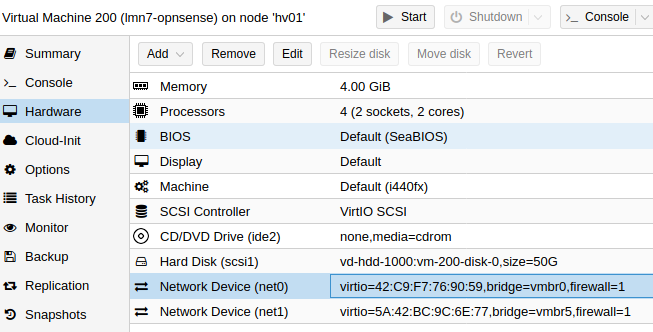
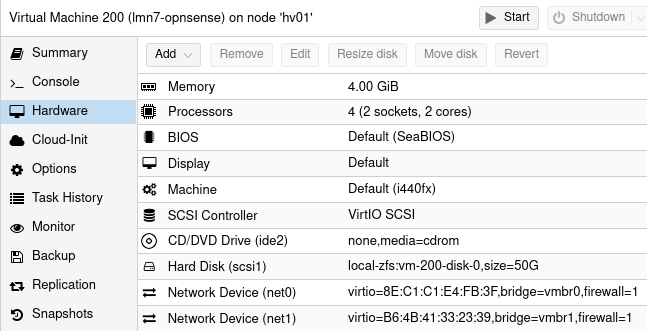
Enlargement of the hard disks according to the schedule

diff --git a/source/getting-started/installoptions/install-on-proxmox/index.rst b/source/getting-started/installoptions/install-on-proxmox/index.rst
@@ -272,20 +272,11 @@ Dazu wähle das Menü `Datacenter` -> `hv01`-> `Network`-> `Create` -> `Linux Br
 
 Darauf öffent sich ein neues Fenster. Dort sind folgende Einträge nötig: 
 
-============ ======
-Feld         Inhalt
-============ ======
-Bridge ports eno2
-Comment      green
-============ ======
-
-Mit `Create` wird die Brücke erstellen.
-
 .. figure:: media/install-on-proxmox_14_create-linux-bridge.png
    :align: center
    :alt: Schritt 14
 
-.. Bild muss ausgetauscht werden.
+Mit `Create` wird die Brücke erstellen.
 
 Anschließend Proxmox über den Button `Reboot` oben rechts neu starten, um die neuen Networking-Konfigurationen zu laden - Node hv01 muss dafür im Menü `Datacenter` links ausgewählt sein:
 
@@ -320,8 +311,6 @@ Die Datei sollte nachstehende Eintragungen aufweisen. Die angezeigte IP für die
         bridge-stp off
         bridge-fd 0
   #green
-
-Der Firewall müssen dann später beide Interfaces zugeordnet werden.
 
 (Optional) Festplatten anpassen
 -------------------------------
@@ -656,11 +645,13 @@ VM HDD anpassen
 ---------------
 
 Um die Größe der Festplatten der importierten VMs anzupassen sind mehrere Schritte erforderlich.
-Nachstehender Link führt dich zur Anpassung der HDD Größe der VMs für Proxmox.
+Nachstehender Link führt dich zur Anpassung der HDD Größe der VMs.
 
-=================================== ==============================
-Vorbereiten der Proxmox-Festplatten |follow_me2proxmox-hd-chapter|
-=================================== ==============================
+=================================== =====================
+Vorbereiten der Proxmox-Festplatten |follow_me2hd-resize|
+=================================== =====================
+
+.. _install-on-proxmox-network-config-label:
 
 VM Netzwerkeinstellungen prüfen
 -------------------------------
@@ -671,42 +662,52 @@ Die OPNSense VM weist zwei Netzwerkkarten auf, wie nachstehend dargestellt:
    :align: center
    :alt: Schritt 23
 
-Die Netzwerkkarte `net0` ist hier mit der Bridge `vmbr0` verbunden. Diese ist derzeit noch für das rote Netz / externes Netz zuständig. Im nächsten Schritt wird dies geändert, so dass die VMs mit der internen Schnittstelle an die Bridge `vmbr0` und die externe Schnittstelle der OPNSense-VM auf die dann externe Bridge `vmbr1` anzuschliessen ist.
-
-Die Netzwerkkarte `net1` ist hier mit der Bridge `vmbr5` verbunden, die wir bislang gar nicht haben. Diese Netzwerkkarte muss nun mit unserer Bridge für das externe Netz `vmbr1` - Anpassungen siehe nächster Schritt - verbunden werden.
-
-Wähle hierzu die Netzwerkarte `net1` aus und klicke auf `Edit`. Es erscheint ein Fenster mit den Einstellungen der Netzwerkkarte.
-Ändere den Eintrag für die Bridge auf `vmbr1` wie in der Abb. zu sehen ist:
-
-.. figure:: media/install-on-proxmox_24_vm-network-edit.png
-   :align: center
-   :alt: Schritt 24
-
-Danach müssen für die OPNSense-VM die Netzwerkeintragungen wie folgt aussehen:
+Die Netzwerkkarte `net0` ist mit der Bridge `vmbr0` verbunden. Diese ist derzeit noch für die Verbinndung ins Intranet zuständig. Die Netzwerkkarte `net1` ist mit der Bridge `vmbr1` verbunden.
 
 .. figure:: media/install-on-proxmox_25_vm-network-status.png
    :align: center
    :alt: Schritt 25
 
-Für die VMs `server, opsi, docker` müssen die Einstellungen für die Netzzwerkkarte ebenfalls überprüft werden.
-Alle müssen mit der `Bridge vmbr0 (internes Netz)` - siehe nächster Schritt - verbunden werden. Dies erfolgt wie zuvor dargestellt.
+Im nächsten Schritt wird dies geändert, so dass die VMs mit ihrer Verbindung ins Intranet (grünes Netz) an die Bridge `vmbr0` und die externe Schnittstelle der OPNSense-VM auf die dann externe Bridge `vmbr1` angeschlossen sein wird.
+
+Für die VMs `server, opsi, docker` müssen die Einstellungen für die Netzwerkkarte ebenfalls überprüft werden.
+Alle sollten mit ihrem `Network Device net0` mit der `bridge=vmbr0` verbunden sein.
+
+Für die endgültige Verwendung kommentierst du jetzt am besten die Netzwerk-Schnittstellen deines Promox-Host entsprechend.
+
+Wechsele auf deinen Host `hv01`, wähle unter `Network` die Bridge `vmbr0` aus und betätige den Edit-Button.
+
+.. figure:: media/install-on-proxmox_25-01_edit-network-devices.png
+   :align: center
+   :alt: Schritt 25-1
+
+Dann fügst du den Kommentar in das entsprechende Feld ein.
+Die Felder `IPv4/CIDR` und `Gateway (IPv4)` sind unerheblich.
+
+.. figure:: media/install-on-proxmox_25-02_vm-network-bridge-vmbr0-comment.png
+   :align: center
+   :alt: Schritt 25-2
+
+Ebenso verfährst du der Brigde `vmbr1`.
+
+.. figure:: media/install-on-proxmox_25-03_vm-network-bridge-vmbr1-comment.png
+   :align: center
+   :alt: Schritt 25-3
+  
 
 Proxmox - Host: Zugriff von außen unterbinden
 =============================================
 
-Um nach der Erstinstallation und -konfiguration den Zugriff auf den Proxmox - Host von außen zu unterbinden, ist nun die Netzwerkschnittstelle und die IP für den Proxmox-Host zu ändern. Zudem ist die Verkabelung zu ändern.
+Das Management-Interface (WebUI) des Proxmox-Host ist immer auf `vmbr0` festgelegt. 
 
-Das Management-Interface (WebUI) des Proxmox-Host ist immer auf `vmbr0` festgelegt. Daher müssen nun die IP-Einstellungen, 
-die DNS-Auflösung und der Hostname an mehreren Stellen geändert werden.
+Um nach der Erstinstallation und -konfiguration den Zugriff auf den Proxmox-Host von außen zu unterbinden, ist die Netzwerkschnittstelle, die IP für den Proxmox-Host und die Verkabelung zu ändern.
 
 Dies erledigst du mit folgenden drei Konfigurationsschritten:
 
-**1. Ändern der sog. interfaces**
+**1. Ändern der Interfaces**
 
-Du öffnest wie zuvor beschrieben die Shell des Proxmox-Host.
-Dann editierst Du die Datei ``/etc/network/interfaces`` und speicherst die Änderungen.
-
-Mit den in der Dokumentation zuvor angegebenen Adressen änderst Du die Eintragungen wie folgt:
+Du öffnest wie zuvor beschrieben die Shell des Proxmox-Host hv01.
+Darin editierst Du die Datei ``/etc/network/interfaces`` änderst Du die Eintragungen wie folgt:
 
 .. code::
 
@@ -717,24 +718,22 @@ Mit den in der Dokumentation zuvor angegebenen Adressen änderst Du die Eintragu
   
   iface eno2 inet manual
 
+  #Bridge green / intern
   auto vmbr0
-  iface vmbr0 inet static # externe NIC 
-        address 10.0.0.20 #IP aus dem internen / gruenen Netz - IP des Proxmox-Host
-        netmask 255.255.0.0  # Subnetzmaske 16 = 255.255.0.0
-        gateway 10.0.0.254  #IP der OPNSense Firewall
-        bridge-ports eno1 # erste NIC an vmbr0 gebunden
+  iface vmbr0 inet static
+        address 10.0.0.20   # IP aus dem internen Netzwerkes (gruen) - IP des Proxmox-Host
+        netmask 255.255.0.0 # Subnetzmaske 16 = 255.255.0.0
+        gateway 10.0.0.254  # IP der OPNSense Firewall
+        bridge-ports eno1   # erste NIC an vmbr0 gebunden
         bridge-stp off
         bridge-fd 0
-  #Bridge green / intern
 
+  #Bridge red / extern
   auto vmbr1
   iface vmbr1 inet manual
-        bridge-ports eno2 # Bridge an zweite NIC gebunden 
+        bridge-ports eno2   # zweite NIC an vmbr1 gebunden 
         bridge-stp off
         bridge-fd 0
-  #Bridge red / extern
-
-Physikalisch ist bislang die erste Netzwerkkarte mit dem (DSL-)Router und die zweite Netzwerkkarte mit dem Switch zu verbinden, der für das interne Netz genutzt wird - wie zuvor beschrieben. Dies ändert sich nun. Die Netzwerkkarte `eno1` wird auf den `internen Switch` verkabelt und die Netzwerkkarte `eno2` wird auf den `externen -Swicth / (DSL-)Router` verkabelt.
 
 **2. Ändern des Hostnames**
 
@@ -762,9 +761,13 @@ Zur Übernahme der Einstellungen ist der Proxmox-Host neu zu starten. (`Reboot`)
 
 .. attention::
 
-   Nach dem Neustart kannst du nicht mehr mit dem Laptop, der bislang auf dem Switch für das externe Netz steckt und eine IP aus dem Bereich 192.168.199.x/24 hat, mit der Proxmox-GUI verbinden. Schließe die erste Netzwerkkarte (eno1) des Servers und den Admin-Laptop auf den internen Switch an und konfiguriere den Laptop mit der IP 10.0.0.10/16, Gateway & DNS 10.0.0.254. Stecke das Netzwerkkabel der zweiten Netzwerkkarte (eno2) auf den externen Switch / (DSL-)Router).
+   Nach dem Neustart kannst du nicht mehr mit dem Laptop, der bislang auf mit dem Switch für das externe Netzwerk verbunden ist und eine IP aus dem Bereich 192.168.199.x/24 hat, mit der Proxmox-GUI verbinden. Um mit der Installation fortfahren zu können musst du ...
+      * die erste physikalische Netzwerkkarte (eno1) des Servers und den Admin-Laptop an dem Switch anschließen, den du für das interne Netz vorgesehen hast.
+      * die Konfiguration deines Laptops auf IP 10.0.0.10/16 und des Gateway & DNS 10.0.0.254 ändern.
+      * das Netzwerkkabel der zweiten Netzwerkkarte (eno2) deines Servers mit deinem externen Switch / (DSL-)Router) verbinden.
 
-Die WebUI des Proxmox-Host erreichst du über den Laptop mit der IP `10.0.0.10/16`, der am internen Switch angeschlossen ist, mit der Adresse `https://10.0.0.20:8006`.
+
+Die WebUI des Proxmox-Host erreichst du über die Adresse `https://10.0.0.20:8006`.
 
 Virtuelle Maschinen starten
 ===========================
@@ -791,9 +794,3 @@ Zum jetzigen Zeitpunkt hat dein Proxmox-Host keine Internet-Verbindung. Diese er
 ============================ =================
 Weiter geht es mit dem Setup |follow_me2setup|
 ============================ =================
-
-..
-   ================================================ ===========================================
-   Weiter geht es mit der Anpassung der Festplatten |follow_me2linux-adjusting_hard_drive_size|
-   ================================================ ===========================================
-

diff --git a/source/getting-started/harddisk/hard-drive-size-opnsense-vm.rst b/source/getting-started/harddisk/hard-drive-size-opnsense-vm.rst
@@ -8,9 +8,7 @@ Aktualisieren der Festplattengrößen der OPNSense VM
 
 .. hint::
 
-   Achtung: Diese Dokumentation ist noch nicht ganz fertig und muss weiter getestet werden
-   Diesen Abschnitt must du nur ausführen, sofern du in deinem Hypervisor die HDD-Größe der OPNSense bereits vergrößert hast.
-   Ansonsten kannst Du bei der Einrichtung mit dem Kapitel ``Netzbereich anpassen`` fortgahren.
+   Achtung: Diese Dokumentation ist noch nicht ganz fertig und muss weiter getestet werden. Diesen Abschnitt must du nur ausführen, sofern du in deinem Hypervisor die HDD-Größe der OPNSense bereits vergrößert hast. Ansonsten kannst Du bei der Einrichtung mit dem Kapitel ``Netzbereich anpassen`` fortfahren.
    
 ==================== ======================
 Netzbereich anpassen |follow_me2modify-net|
@@ -115,16 +113,11 @@ Es ist zu erkennen, dass die Vergrßerung letztendlich durchgeführt wurde:
 
 Weiterführende Erklärungen zu FreeBSD zu diesem Thema findest du hier: 
 
-  https://unix.stackexchange.com/questions/117023/expanding-the-disk-size-on-pfsense-under-vmware-esxi
-      
- 
+https://unix.stackexchange.com/questions/117023/expanding-the-disk-size-on-pfsense-under-vmware-esxi
 
-
-
-.. 
-   =================================== ======================
-   Vorbereiten der Proxmox-Festplatten |follow_me2proxmox-hd|
-   Vorbereiten der XCP-ng-Festplatten  |follow_me2xcp-ng-hd|
-   Vorbereiten der KVM-Festplatten     |follow_me2kvm-hd|
-   =================================== ======================
+=========================== ==========================
+Virtualisierung mit Proxmox |follow_me2proxmox-backhd|
+Virtualisierung mit XCP-ng  |follow_me2xcp-ng-backhd|
+Virtualisierung mit KVM     |follow_me2kvm-backhd|
+=========================== ==========================
 

diff --git a/source/getting-started/harddisk/hard-drive-size-vm.rst b/source/getting-started/harddisk/hard-drive-size-vm.rst
@@ -238,21 +238,3 @@ nun deinen wünschen tatsächlich entsprechen.
    /dev/mapper/vg_srv-linbo            433G     40G  376G   10% /srv/linbo
    tmpfs                               1,2G       0  1,2G    0% /run/user/0
 
-
-Fortsetzung des Setups 
-----------------------
-
-=========================== ==========================
-Virtualisierung mit Proxmox |follow_me2proxmox-backhd|
-Virtualisierung mit XCP-ng  |follow_me2xcp-ng-backhd|
-Virtualisierung mit KVM     |follow_me2kvm-backhd|
-=========================== ==========================
-
-
-.. 
-   =================================== ======================
-   Vorbereiten der Proxmox-Festplatten |follow_me2proxmox-hd|
-   Vorbereiten der XCP-ng-Festplatten  |follow_me2xcp-ng-hd|
-   Vorbereiten der KVM-Festplatten     |follow_me2kvm-hd|
-   =================================== ======================
-

diff --git a/source/getting-started/harddisk/index.rst b/source/getting-started/harddisk/index.rst
@@ -82,11 +82,10 @@ Vorbereiten der KVM-Festplatten     |follow_me2kvm-hd|
    hard-drive-size-xcp-ng
    hard-drive-size-kvm
    
+.. Anpassung VMs
+   -------------
 
-Anpassung VMs
--------------
-
-Passe nun die Größe der Festplatten in den VMs selbst wie nachstehend beschrieben an.
+   Passe nun die Größe der Festplatten in den VMs selbst wie nachstehend beschrieben an.
    
 .. toctree::
    :maxdepth: 2
